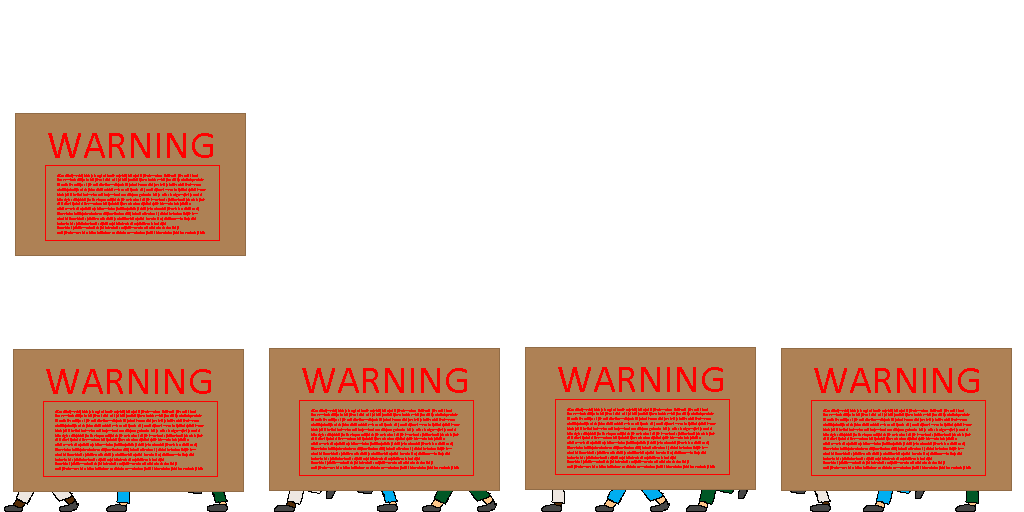
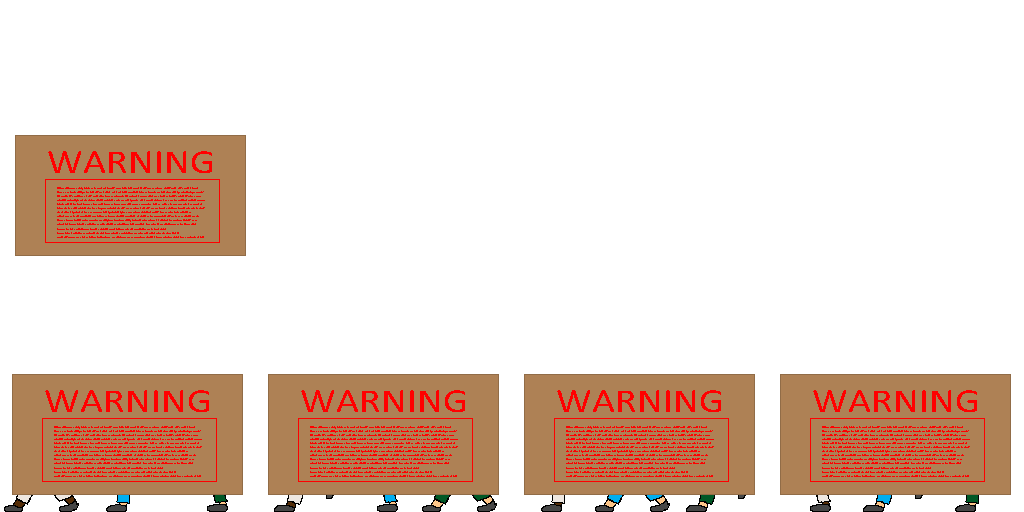
FIXED THAT B*!$@&#%($$!$@%#^$% BIG BOX BOY.
Got it done for the most part.

Changed region(s): [[0.0, 0.6562, 1.0, 0.9688], [0.0, 0.2188, 0.25, 0.5]]

diff --git a/JimmysCardboardCastle/BigBoxBoy.cpp b/JimmysCardboardCastle/BigBoxBoy.cpp
@@ -6,6 +6,7 @@
 BigBoxBoy::BigBoxBoy(double x, double y) : PhysicsSprite("images/spr_BBBoy.png")
 {
 	setPosition(x, y);
+	active = false;
 
 	// animations:
 	// 0 - standing
@@ -19,9 +20,8 @@ BigBoxBoy::BigBoxBoy(double x, double y) : PhysicsSprite("images/spr_BBBoy.png")
 
 	addSpriteAnimRow(1, 0, 0, 256, 0, 4); // second animation
 	setAnimationSpeed(1, 0.5);
-	setAnimationLoop(1, false);
 
-	setCurrentAnimation(2);
+	setCurrentAnimation(0);
 
 	// PHYSICAL PROPERTIES //
 	mass = 150;
@@ -29,12 +29,12 @@ BigBoxBoy::BigBoxBoy(double x, double y) : PhysicsSprite("images/spr_BBBoy.png")
 	groundFriction = 0.75;
 	// (airGroundFriction and gravity are left to defaults)
 
-	hitbox = Hitbox(15, 0, 231, 143);
+	hitbox = Hitbox(15, 0, 226, 122);
 
-	setCenter(108, 71);
+	setCenter(128, 71);
 
 	// BEHAVIORAL STATE VARIABLE(S) //
-	walking = true;
+	walking = false;
 }
 
 void BigBoxBoy::initialize() // use initialize for anything involving world (like groups)
@@ -48,43 +48,47 @@ void BigBoxBoy::update()
 	// Is the character on the ground?
 	bool grounded = (collide(&world->groups["ground"], 0, -2) != NULL);
 
-	if (collide(&world->groups["player"], 0, 2)) // If the player is on top of me,
+	if (active)
 	{
-		//walking = false; // stop
-		//setCurrentAnimation(0); // and hide.
-	}
-	else // If not:
-	{
-		// check if a member of 'ground' who IS NOT the player is beside me, and if so, turn away
-		Sprite * s;
-		if ((s = collide(&world->groups["ground"], -2, 0)) && !s->inGroup(&world->groups["player"])) flipped = true;
-		if ((s = collide(&world->groups["ground"], 2, 0)) && !s->inGroup(&world->groups["player"])) flipped = false;
-
-		// 1/200th of a chance each frame to:
-		if (rand() % 200 == 0) {
-			if (walking) {
-				walking = false; // stop walking
-				setCurrentAnimation(0); // and hide animation
+		
+			// check if a member of 'ground' who IS NOT the player is beside me, and if so, turn away
+			Sprite * s;
+			if ((s = collide(&world->groups["ground"], -5, 0)) && !s->inGroup(&world->groups["player"]) && !flipped)
+			{
+				flipped = true;
+				walking = false;
+				setCurrentAnimation(0);
 			}
-			else {
-				walking = true; // or start walking
-				setCurrentAnimation(2); // and crawl animation
+			if ((s = collide(&world->groups["ground"], 5, 0)) && !s->inGroup(&world->groups["player"]) && flipped)
+			{
+				flipped = false;
+				walking = false;
+				setCurrentAnimation(0);
+			}
+
+			// 1/200th of a chance each frame to:
+			if (!walking)
+				if (rand() % 1 == 0) { {
+					walking = true; // stop walking
+					setCurrentAnimation(1); // and hide animation
+				}
 			}
 		}
-		if (!walking && rand() % 200 == 0) // If standing still, 1/200th chance of
+
+		if (walking) // If we are walking:
 		{
-			// sneaking a peak at the world
-			setCurrentAnimation(1);
-			setFrame(0); // set animation to the start, as it doesn't loop
+			if (!flipped)	// and facing left (the image faces right)
+				contactVelocity.x += 5; // move feet right (thus pushing self left);
+			else			// and facing right
+				contactVelocity.x -= 5; // move feet left (thus pushing self right);
 		}
-	}
 
-	if (walking) // If we are walking:
+	if (!active)
 	{
-		if (!flipped)	// and facing left (the image faces right)
-			contactVelocity.x += 1.5; // move feet right (thus pushing self left);
-		else			// and facing right
-			contactVelocity.x -= 1.5; // move feet left (thus pushing self right);
+		if (collide(&world->groups["player"],2,0))
+			active = true;
+		else if (collide(&world->groups["player"],-2,0))
+			active = true;
 	}
 
 	// Handles ground friction and acceleration due to movement //

diff --git a/JimmysCardboardCastle/LevelConstructor.h b/JimmysCardboardCastle/LevelConstructor.h
@@ -26,6 +26,7 @@ void ConstructLevel(LevelData &levelData, World * world, bool storeReferences = 
 		else if (info.type == "rmarble") t = new Marble(info.xPos, info.yPos, 1);
 		else if (info.type == "gmarble") t = new Marble(info.xPos, info.yPos, 2);
 		else if (info.type == "dmarble") t = new Marble(info.xPos, info.yPos, 3);
+		else if (info.type == "bigboxboy") t = new BigBoxBoy(info.xPos, info.yPos);
 		else if (info.type == "background") t = new Background(info.xPos, info.yPos, info.frameSizeX, info.frameSizeY, info.imagePath);
 		if (t != NULL)
 		{

diff --git a/JimmysCardboardCastle/entities.h b/JimmysCardboardCastle/entities.h
@@ -14,3 +14,4 @@
 #include "RobertsFriends.h"
 #include "Cookie.h"
 #include "Marble.h"
+#include "BigBoxBoy.h"

diff --git a/JimmysCardboardCastle/BigBoxBoy.h b/JimmysCardboardCastle/BigBoxBoy.h
@@ -9,4 +9,5 @@ public:
 
 	// state variables
 	bool walking;
+	bool active;
 };
